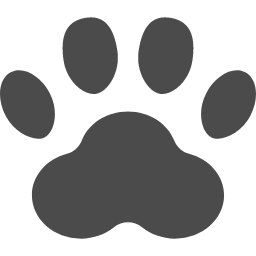
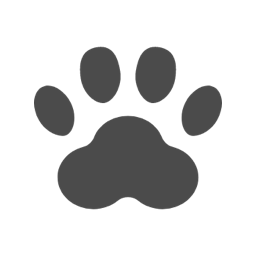
improve footprints function

diff --git a/js/master.js b/js/master.js
@@ -1,4 +1,4 @@
 function addCats() {
-  var body = document.getElementsByClassName("container")[0];
-  body.style.backgroundImage = "url(img/footprint.png)";
+  const body = document.body;
+  body.style.backgroundImage = "url(img/footprints.png)";
 }
